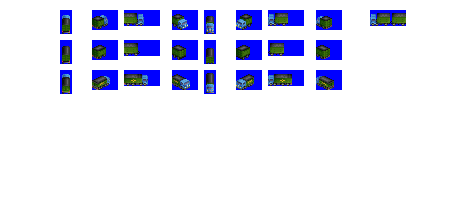
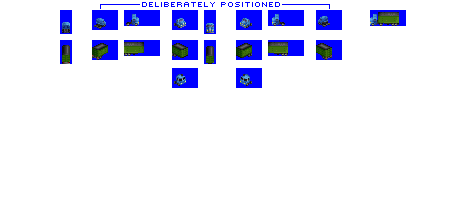
Change: rework gestalt and sprites for Runwell and Easywheal box trucks

diff --git a/src/vehicles/runwell.py b/src/vehicles/runwell.py
@@ -6,18 +6,21 @@ consist = RVConsist(vehicle_type = BoxHauler,
                 base_numeric_id = 890,
                 title = 'Runwell [Open Truck]',
                 replacement_id = '-none',
+                semi_truck_so_redistribute_capacity = True,
                 vehicle_life = 40,
                 intro_date = 1910)
 
-consist.add_unit(weight = 12,
-                capacity = 12,
-                vehicle_length = 5,
+consist.add_unit(weight = 6,
+                capacity = 0,
+                vehicle_length = 2,
+                semi_truck_shift_offset_jank = 2,
                 effect_spawn_model = 'EFFECT_SPAWN_MODEL_STEAM',
-                effects = ['EFFECT_SPRITE_STEAM, -3, 0, 12'])
+                effects = ['EFFECT_SPRITE_STEAM, -3, 0, 12'],
+                always_use_same_spriterow = True)
 
-consist.add_unit(weight = 7,
-                capacity = 12,
-                vehicle_length = 4)
+consist.add_unit(weight = 6,
+                capacity = 24,
+                vehicle_length = 5)
 
 consist.add_model_variant(intro_date=0,
                        end_date=global_constants.max_game_date,

diff --git a/src/vehicles/easywheal.py b/src/vehicles/easywheal.py
@@ -6,17 +6,21 @@ consist = RVConsist(vehicle_type = BoxHauler,
                 base_numeric_id = 160,
                 title = 'Easywheal [Box Truck]',
                 replacement_id = '-none',
+                semi_truck_so_redistribute_capacity = True,
                 vehicle_life = 40,
                 intro_date = 1939)
 
-consist.add_unit(weight = 12,
-                capacity = 15,
-                vehicle_length = 5,
-                visual_effect = 'VISUAL_EFFECT_DIESEL')
-
 consist.add_unit(weight = 5,
-                capacity = 15,
-                vehicle_length = 4)
+                capacity = 0,
+                vehicle_length = 2,
+                semi_truck_shift_offset_jank = 2,
+                visual_effect = 'VISUAL_EFFECT_DIESEL',
+                always_use_same_spriterow = True)
+
+consist.add_unit(weight = 6,
+                capacity = 30,
+                vehicle_length = 5)
+
 
 consist.add_model_variant(intro_date=0,
                        end_date=global_constants.max_game_date,
